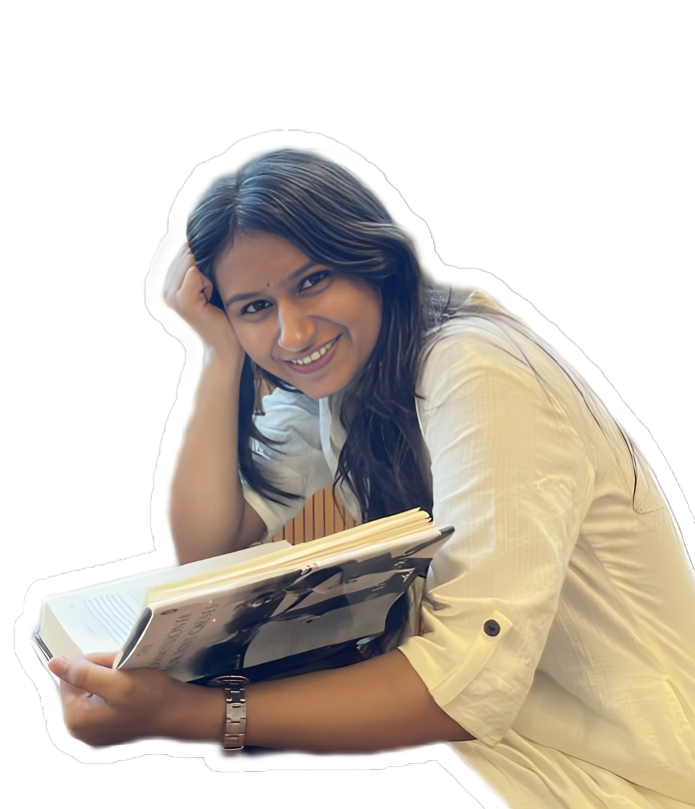
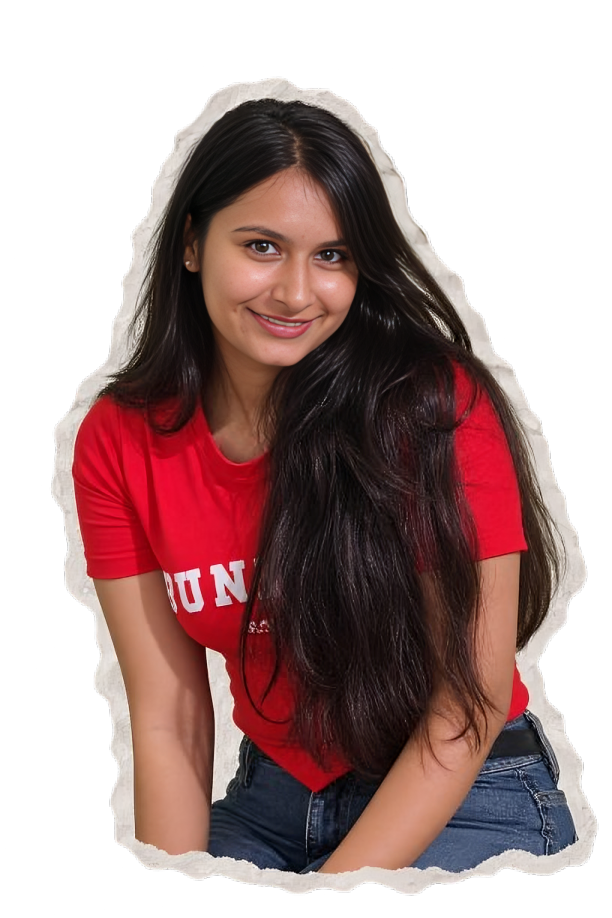
update: replace About section image with red shirt cutout and restore semi-circle dome arch background

diff --git a/src/App.tsx b/src/App.tsx
@@ -1153,19 +1153,20 @@ function About() {
               minHeight: isMobile ? 'clamp(360px, 92vw, 470px)' : '460px',
             }}
           >
-            {/* Glowing Red Circle Background */}
+            {/* Red Semi-Circle Arch (Dome Arch Background) */}
             <div style={{
               position: 'absolute',
-              bottom: '10px',
-              width: isMobile ? 'min(300px, 80vw)' : '400px',
-              height: isMobile ? 'min(300px, 80vw)' : '400px',
-              borderRadius: '50%',
-              background: 'linear-gradient(135deg, #DC2626 0%, #EF4444 60%, #9B1C1C 100%)',
-              boxShadow: '0 20px 50px rgba(220, 38, 38, 0.28)',
+              bottom: 0,
+              width: isMobile ? 'min(340px, 88vw)' : '460px',
+              height: isMobile ? 'clamp(180px, 46vw, 260px)' : '260px',
+              borderTopLeftRadius: '230px',
+              borderTopRightRadius: '230px',
+              background: 'linear-gradient(180deg, #DC2626 0%, #EF4444 50%, #9B1C1C 100%)',
+              boxShadow: '0 20px 50px rgba(220, 38, 38, 0.3)',
               zIndex: 1,
             }} />
 
-            {/* Immersive 3D Pop-Out Cutout Image */}
+            {/* Immersive Cutout Image Popping Out of Semi-Circle Arch */}
             <img
               src={dhritiAboutImg}
               alt="Dhriti Arora About"
@@ -1174,12 +1175,11 @@ function About() {
               style={{
                 position: 'relative',
                 zIndex: 5,
-                width: isMobile ? 'min(350px, 90vw)' : '480px',
-                height: isMobile ? 'clamp(380px, 94vw, 490px)' : '510px',
+                width: isMobile ? 'min(320px, 82vw)' : '430px',
+                height: isMobile ? 'clamp(360px, 92vw, 470px)' : '480px',
                 objectFit: 'contain',
                 objectPosition: 'bottom center',
-                filter: 'drop-shadow(0 20px 35px rgba(0,0,0,0.25))',
-                transform: 'translateY(-18px) scale(1.08)',
+                filter: 'drop-shadow(0 15px 30px rgba(0,0,0,0.25))',
               }}
             />
           </m.div>
